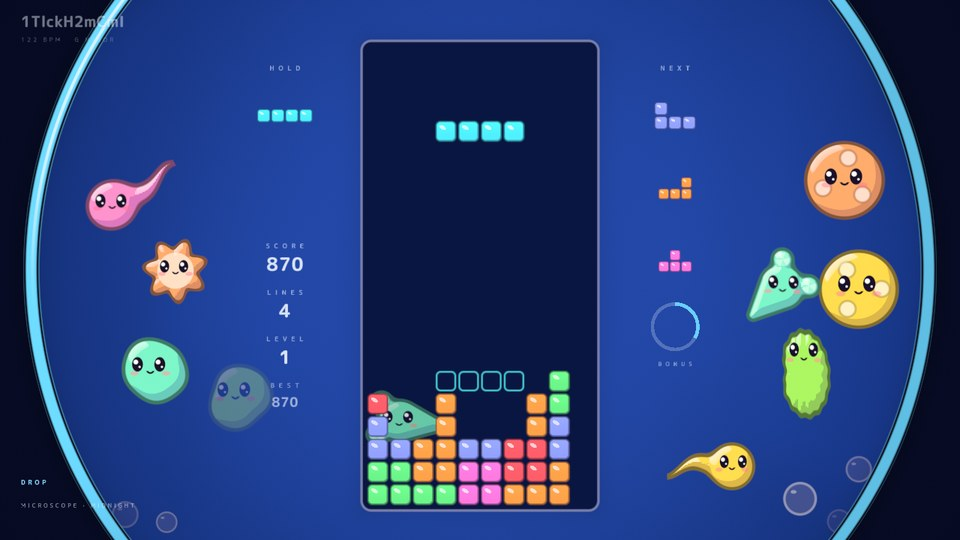
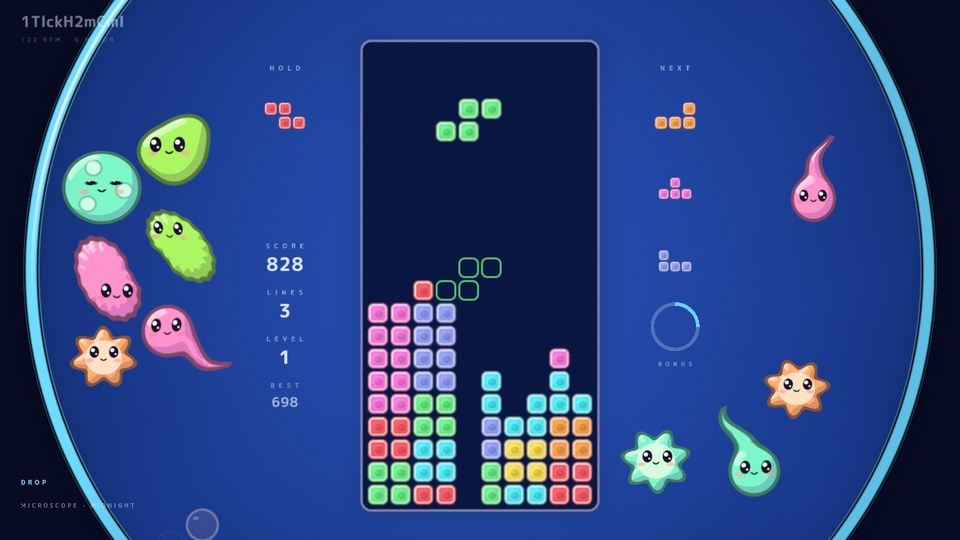
MICROSCOPE: the pieces as picture-book living cells, the well's pane hides the creatures, a bluer moonlight
The generic glossy jelly tiles become cells of the dish: one soft rounded
silhouette per block, a pale translucent membrane catching the light, a
bright cytoplasm lighter toward its middle and one big soft nucleus in a
deeper tone, the same bold outline and saturated per-type colors.
Creatures passing behind the well are clipped by its pane (the hard
drop's bubbles excepted), so nothing shows inside the well. Slow motion
draws the dish toward a saturated moonlit blue instead of grey.

Claude-Session: https://claude.ai/code/session_01TRpCVe8qgHvBr5qwovmpX7

diff --git a/src/universes/microscope/shaders.hpp b/src/universes/microscope/shaders.hpp
@@ -5,7 +5,7 @@
 // drifting in it far from the well) and the well's calm rounded pane; LIFE_FS the creatures (one signed distance per
 // kind: a bean, a blob, a tadpole, a daisy, a rotifer with its two wheels, a volvox ball with its babies, and plain
 // bubbles), toon shaded (a flat color, one cel shadow, a bold outline, a gloss) with big kawaii eyes always upright;
-// PIECE_FS the pieces (one plump jelly cell per block, one color per type, a gloss, nothing inside); FINAL_FS the
+// PIECE_FS the pieces (one picture-book cell per block: a pale membrane, a bright cytoplasm, one big soft nucleus); FINAL_FS the
 // eyepiece (the round dish in its thick toy rim, on the variant's table color) and the frame. The water and the
 // creatures' colors come from the variant's own palette and the drop's, soaking in unevenly (stainK).
 #include <string>
@@ -102,7 +102,7 @@ in vec2 vL;
 in vec2 vWorld;
 flat in vec4 vA, vB, vC, vD, vE;
 out vec4 frag;
-uniform float uGlow;
+uniform float uGlow, uPane;           // uPane: the well's pane hides what passes behind it
 uniform vec3 uEyeInk, uBlush;
 float smin(float a, float b, float k) { float h = clamp(0.5 + 0.5 * (b - a) / k, 0.0, 1.0); return mix(b, a, h) - k * h * (1.0 - h); }
 float sdRoundCone(vec2 p, vec2 a, vec2 b, float r1, float r2) {
@@ -174,6 +174,8 @@ void main() {
     float d = body(q);
     float aa = max(length(fwidth(q)) * 0.7, 1e-4);
     float cov = 1.0 - smoothstep(-aa, aa, d);
+    float dw = sdRoundBox(vWorld - vec2(0.0, 0.15), vec2(5.24, 10.37), 0.45);
+    if (kind != 6) cov *= 1.0 - uPane * (1.0 - smoothstep(-0.02, 0.06, dw));   // (the hard drop's bubbles stay)
     if (cov <= 0.0) discard;
     float k = stainK(vWorld);
     vec3 col = mix(vC.rgb, vD.rgb, k);
@@ -309,20 +311,20 @@ void main() {
     int type = int(vB.x + 0.5);
     float t = vB.z;
     const float GAP = 0.045;
-    float sc = 1.0, rc = 0.22;
+    float sc = 1.0, rc = 0.28;
     vec2 off = vec2(0.0);
     if (kind == 2) {
         // popping: it puffs up a little into a ball, then shrinks away
         float up = smoothstep(0.0, 0.35, t), down = smoothstep(0.3, 1.0, t);
         sc = (1.0 + 0.1 * up) * (1.0 - down * down);
-        rc = mix(0.2, 0.45, up);
+        rc = mix(0.28, 0.45, up);
     }
     if (kind == 3) {
         // deflating: it sags and shrinks
         float e = smoothstep(0.0, 1.0, t);
         sc = 1.0 - 0.3 * e;
         off = vec2(0.0, -0.14 * e);
-        rc = mix(0.2, 0.32, e);
+        rc = mix(0.28, 0.36, e);
     }
     if (sc <= 0.01) discard;
     float d = sdRoundBox((p - off) / sc, vec2(0.5 - GAP), rc) * sc;
@@ -337,21 +339,28 @@ void main() {
         frag = vec4(col * a, a);
         return;
     }
-    // a jelly cell: plump (a pillow normal), one cel shadow, a gloss, a bold outline in a deep shade of its color
+    // a picture-book cell: a pale, translucent membrane, a bright cytoplasm lighter toward its middle, one big soft
+    // nucleus, a bold outline in a deep shade of its color
+    vec2 q = (p - off) / sc;
+    float in_ = -d / sc;
     vec2 g = vec2(dFdx(d), dFdy(d));
     vec2 n = g / max(length(g), 1e-6);
-    float tin = smoothstep(0.0, 0.16, -d);
-    vec3 N = normalize(vec3(n * (1.0 - tin), 0.35 + tin));
-    float dif = dot(N, normalize(vec3(-0.5, 0.62, 0.6)));
-    vec3 c = mix(col * vec3(0.72, 0.68, 0.86), col, smoothstep(0.18, 0.26, dif));
-    c *= 1.0 + 0.1 * smoothstep(-0.3, 0.4, p.y);
-    vec2 hp = (p - off) / sc - vec2(-0.15, 0.17);
-    hp = mat2(0.87, 0.5, -0.5, 0.87) * hp;
-    float gloss = 1.0 - smoothstep(-0.12, 0.05, length(hp / vec2(0.17, 0.085)) - 1.0);
-    c = mix(c, vec3(1.0), gloss * 0.6);
+    float cyto = smoothstep(0.12, 0.17, in_);
+    vec3 cy = col * (0.86 + 0.26 * (1.0 - smoothstep(0.0, 0.4, length(q - vec2(-0.07, 0.07)))));
+    vec3 mem = mix(col, vec3(1.0), 0.42);
+    vec3 c = mix(mem, cy, cyto);
+    // the membrane catches the light on its upper left
+    float lit = smoothstep(0.1, 0.6, dot(n, normalize(vec2(-0.6, 0.8))));
+    c = mix(c, vec3(1.0), (1.0 - cyto) * lit * 0.45);
+    // the nucleus: one soft round blob, a little off center, deeper in tone
+    vec2 nq = (q - vec2(0.04, -0.04)) / vec2(0.2, 0.18);
+    float nd = length(nq) - 1.0;
+    float nuc = 1.0 - smoothstep(-0.3, 0.12, nd);
+    vec3 nc = mix(col * 0.64, uEyeInk, 0.06) * (1.0 + 0.25 * (1.0 - smoothstep(0.0, 1.0, length(nq + vec2(0.35, -0.35)))));
+    c = mix(c, nc, nuc * 0.9);
     c = mix(c, vec3(1.0), vC.x * 0.35);
     c = mix(c, mix(col * 0.34, uEyeInk, 0.3), smoothstep(-0.05 - aa, -0.05 + aa, d));
-    float a = cov * vB.w;
+    float a = cov * vB.w * mix(0.82, 1.0, max(cyto, smoothstep(-0.07, -0.03, d)));
     if (kind == 2) {
         c = mix(c, vec3(1.0), 0.25 * smoothstep(0.0, 0.4, t));
         a *= 1.0 - smoothstep(0.7, 1.0, t);

diff --git a/src/universes/microscope/microscope.cpp b/src/universes/microscope/microscope.cpp
@@ -5,8 +5,8 @@
 // drifting in it and a few big bubbles rising slowly at the sides. The well is a calm rounded pane of a quieter tone
 // (deeper on the dark waters, paler on the light ones), its edge one soft line, so the stack always reads.
 //
-// The pieces are jelly cells: one plump rounded square per block, one clean color per type, a cel shadow, a white
-// gloss and a bold outline in a deep shade of its own color; nothing inside them. The falling piece is exactly a
+// The pieces are picture-book living cells: one soft rounded square per block, one clean color per type, a pale
+// translucent membrane, a bright cytoplasm and one big soft nucleus, a bold outline in a deep shade of its own color. The falling piece is exactly a
 // locked one, the ghost a faint outline, the previews the same cells.
 //
 // The dish starts empty at the start of a song and fills with life as the rows clear: each cleared row pops its cells
@@ -339,7 +339,7 @@ void MicroscopeUniverse::setSong(const SongLook& t, float seconds) {
     p.line = V.light ? lerp(p.water[2], lin(V.inkIn), 0.35f) : lerp(p.water[0], vec3(1.f), 0.25f);
     p.eyeInk = lin(0x1a1028);
     p.blush = lin(0xff6f8e);
-    p.night = V.light ? vec3(0.3f, 0.36f, 0.78f) : vec3(0.6f, 0.72f, 1.35f);
+    p.night = V.light ? vec3(0.26f, 0.36f, 0.95f) : vec3(0.3f, 0.52f, 1.8f);
     const bool instant = !colorsSet_ || seconds <= 0.1f;
     if (instant) {
         pal_ = palT_;
@@ -1191,6 +1191,7 @@ void MicroscopeUniverse::render(const Frame& f, GLuint fbo) {
         glUseProgram(progLife_);
         setPalette(progLife_);
         set1f(progLife_, "uGlow", 1.f + 0.06f * wp + 0.12f * swell_);
+        set1f(progLife_, "uPane", bare_ ? 0.f : 1.f - bridgeK);
         drawInst(progLife_, lifeVao_, lifeVbo_, lifeBack_.data(), lifeBack_.size() * sizeof(LInst), lifeBack_.size());
     }
     glColorMask(GL_TRUE, GL_TRUE, GL_TRUE, GL_TRUE);

diff --git a/docs/universes.md b/docs/universes.md
@@ -259,7 +259,7 @@ Left out of the default build for now (`-DZENTRIS_DISABLED_UNIVERSES=""` builds 
 
 ![MICROSCOPE](universes/microscope.jpg)
 
-A picture-book Petri dish seen through a toy microscope, drawn like a children's book or a toon cartoon (code in `src/universes/microscope/`). The round dish fills the screen in a thick glossy toy rim (a lit and a shaded side, a bold line each side), on the variant's table color; inside, saturated water, a little deeper toward the rim, soft patches of light drifting in it (away from the well and the HUD's columns) and a few big bubbles rising slowly at the sides. The well is a calm rounded pane of a quieter tone (deeper on the dark waters, paler on the light ones), its edge one soft line, so the stack always reads. The pieces are jelly cells: one plump rounded square per block, one clean color per type, a cel shadow, a white gloss and a bold outline in a deep shade of its own color, nothing inside; the falling piece is exactly a locked one, the ghost a faint outline, the previews the same cells. **The dish fills with life over the song**: it is empty when a song starts; each cleared row pops its cells (they puff into balls and vanish in 0.3 s, at the real speed even in slow motion) and frees a creature, which swims out of the well behind the stack (faint while it crosses the HUD's columns), growing to its size on the way, and lives at a home at the side of the dish for the rest of the song: beans (paramecia, a rippling fringe of cilia), blobs (amoebas slowly reaching out a lobe), tadpoles (flagellates lashing their tails), daisies (centric diatoms, seven petals turning slowly), rotifers (two spinning wheels on their heads) and volvox balls (babies rolling inside; a Tetris frees a big one). Every creature is toon shaded (a flat color from the variant's five, one cel shadow, a gloss, a bold outline) with big shiny eyes, rosy cheeks and a small smile, its face always upright and looking where it swims, blinking now and then; they swim with a stroke (a push and a glide, squash and stretch on the same cycle), turning smoothly, never rigidly, apart from each other and clear of the well, the HUD's columns and the corners' lettering. The dish fills at the song's pace (`paceLines`): as many creatures as the pace allows so far, about ten at scene completion (as many as there is room for around the well and the HUD at the window's shape), and the creatures grow up a little as it fills; a row cleared while the dish is as full as the pace allows frees a few bubbles instead, and beyond the full dish (a Tetris' big volvox) the oldest fades away. A new song in the same universe keeps the dish (its progress kept); a new game rinses it. Test hooks: `ZEN_MICROSCOPE_LINES=N` adds N lines, `ZEN_GROW_RATE=R` R lines a second. Calm: a still dish, slow swimmers; mid: on the beat grid, every two beats, a third of the creatures hop (a squash and a bounce), in turn; peak: livelier swimmers, the kicks make the beans and tadpoles dart, each bar turns a few; a cleared row makes a few of them hop, a Tetris all of them. **The drop pours in the variant's second palette**: the water and the creatures soak it in unevenly, with one soft swell of light, and every creature closes its eyes happily for a moment; it is rinsed out slowly after the peak. A hard drop pushes a few small bubbles out from under the piece (behind the stack). Slow motion is the dish by moonlight (its colors drawn toward one deep blue, the pieces keeping theirs), the creatures sleepy, half-closed eyes. Game over deflates the stack from the top, each cell sagging, graying out and fading. It leaves and enters with the dish fading to the bridge, the stack in its ink. Six waters, each with its rim, table, seven piece colors, five creature colors and the drop's: LAGOON (turquoise, a sunny rim; drop: green), BUBBLEGUM (plum, a pink rim; drop: raspberry), MIDNIGHT (navy, a sky-blue rim; drop: violet), LEMONADE (pale yellow on teal, a tomato rim; drop: strawberry), MINT (pale mint on blue; drop: sky blue) and BERRY (pink on purple; drop: lilac), the deep ones for darker songs, the light ones for brighter songs, then the key, mode, dynamics and air (`--universe microscope:lemonade`). Cost: one full-screen pass for the water, one instanced quad per creature and bubble (signed distances per kind, toon shaded, the face in screen space), the pieces one instanced quad per cell, one final pass for the rim; no glow pass. The HUD is M PLUS Rounded 1c (Bold for the labels, numbers and the song, Medium for the small lines), one ink in the dish and one on the table, the bonus gauge a chunky ring charged in the accent (SIL Open Font License, `src/universes/microscope/OFL-MPLUSRounded1c.txt`).
+A picture-book Petri dish seen through a toy microscope, drawn like a children's book or a toon cartoon (code in `src/universes/microscope/`). The round dish fills the screen in a thick glossy toy rim (a lit and a shaded side, a bold line each side), on the variant's table color; inside, saturated water, a little deeper toward the rim, soft patches of light drifting in it (away from the well and the HUD's columns) and a few big bubbles rising slowly at the sides. The well is a calm rounded pane of a quieter tone (deeper on the dark waters, paler on the light ones), its edge one soft line, so the stack always reads. The pieces are picture-book living cells: one soft rounded square per block, one clean saturated color per type, a pale translucent membrane catching the light on its upper left, a bright cytoplasm a little lighter toward its middle and one big soft nucleus in a deeper tone, a bold outline in a deep shade of its own color, nothing else inside; the falling piece is exactly a locked one, the ghost a faint outline, the previews the same cells. **The dish fills with life over the song**: it is empty when a song starts; each cleared row pops its cells (they puff into balls and vanish in 0.3 s, at the real speed even in slow motion) and frees a creature, which swims out of the well hidden behind its pane (nothing shows inside the well; faint while it crosses the HUD's columns), growing to its size on the way, and lives at a home at the side of the dish for the rest of the song: beans (paramecia, a rippling fringe of cilia), blobs (amoebas slowly reaching out a lobe), tadpoles (flagellates lashing their tails), daisies (centric diatoms, seven petals turning slowly), rotifers (two spinning wheels on their heads) and volvox balls (babies rolling inside; a Tetris frees a big one). Every creature is toon shaded (a flat color from the variant's five, one cel shadow, a gloss, a bold outline) with big shiny eyes, rosy cheeks and a small smile, its face always upright and looking where it swims, blinking now and then; they swim with a stroke (a push and a glide, squash and stretch on the same cycle), turning smoothly, never rigidly, apart from each other and clear of the well, the HUD's columns and the corners' lettering. The dish fills at the song's pace (`paceLines`): as many creatures as the pace allows so far, about ten at scene completion (as many as there is room for around the well and the HUD at the window's shape), and the creatures grow up a little as it fills; a row cleared while the dish is as full as the pace allows frees a few bubbles instead, and beyond the full dish (a Tetris' big volvox) the oldest fades away. A new song in the same universe keeps the dish (its progress kept); a new game rinses it. Test hooks: `ZEN_MICROSCOPE_LINES=N` adds N lines, `ZEN_GROW_RATE=R` R lines a second. Calm: a still dish, slow swimmers; mid: on the beat grid, every two beats, a third of the creatures hop (a squash and a bounce), in turn; peak: livelier swimmers, the kicks make the beans and tadpoles dart, each bar turns a few; a cleared row makes a few of them hop, a Tetris all of them. **The drop pours in the variant's second palette**: the water and the creatures soak it in unevenly, with one soft swell of light, and every creature closes its eyes happily for a moment; it is rinsed out slowly after the peak. A hard drop pushes a few small bubbles out from under the piece (behind the stack). Slow motion is the dish by moonlight (its colors drawn toward one saturated moonlit blue, the pieces keeping theirs), the creatures sleepy, half-closed eyes. Game over deflates the stack from the top, each cell sagging, graying out and fading. It leaves and enters with the dish fading to the bridge, the stack in its ink. Six waters, each with its rim, table, seven piece colors, five creature colors and the drop's: LAGOON (turquoise, a sunny rim; drop: green), BUBBLEGUM (plum, a pink rim; drop: raspberry), MIDNIGHT (navy, a sky-blue rim; drop: violet), LEMONADE (pale yellow on teal, a tomato rim; drop: strawberry), MINT (pale mint on blue; drop: sky blue) and BERRY (pink on purple; drop: lilac), the deep ones for darker songs, the light ones for brighter songs, then the key, mode, dynamics and air (`--universe microscope:lemonade`). Cost: one full-screen pass for the water, one instanced quad per creature and bubble (signed distances per kind, toon shaded, the face in screen space), the pieces one instanced quad per cell, one final pass for the rim; no glow pass. The HUD is M PLUS Rounded 1c (Bold for the labels, numbers and the song, Medium for the small lines), one ink in the dish and one on the table, the bonus gauge a chunky ring charged in the accent (SIL Open Font License, `src/universes/microscope/OFL-MPLUSRounded1c.txt`).
 
 ## SONAR
 
